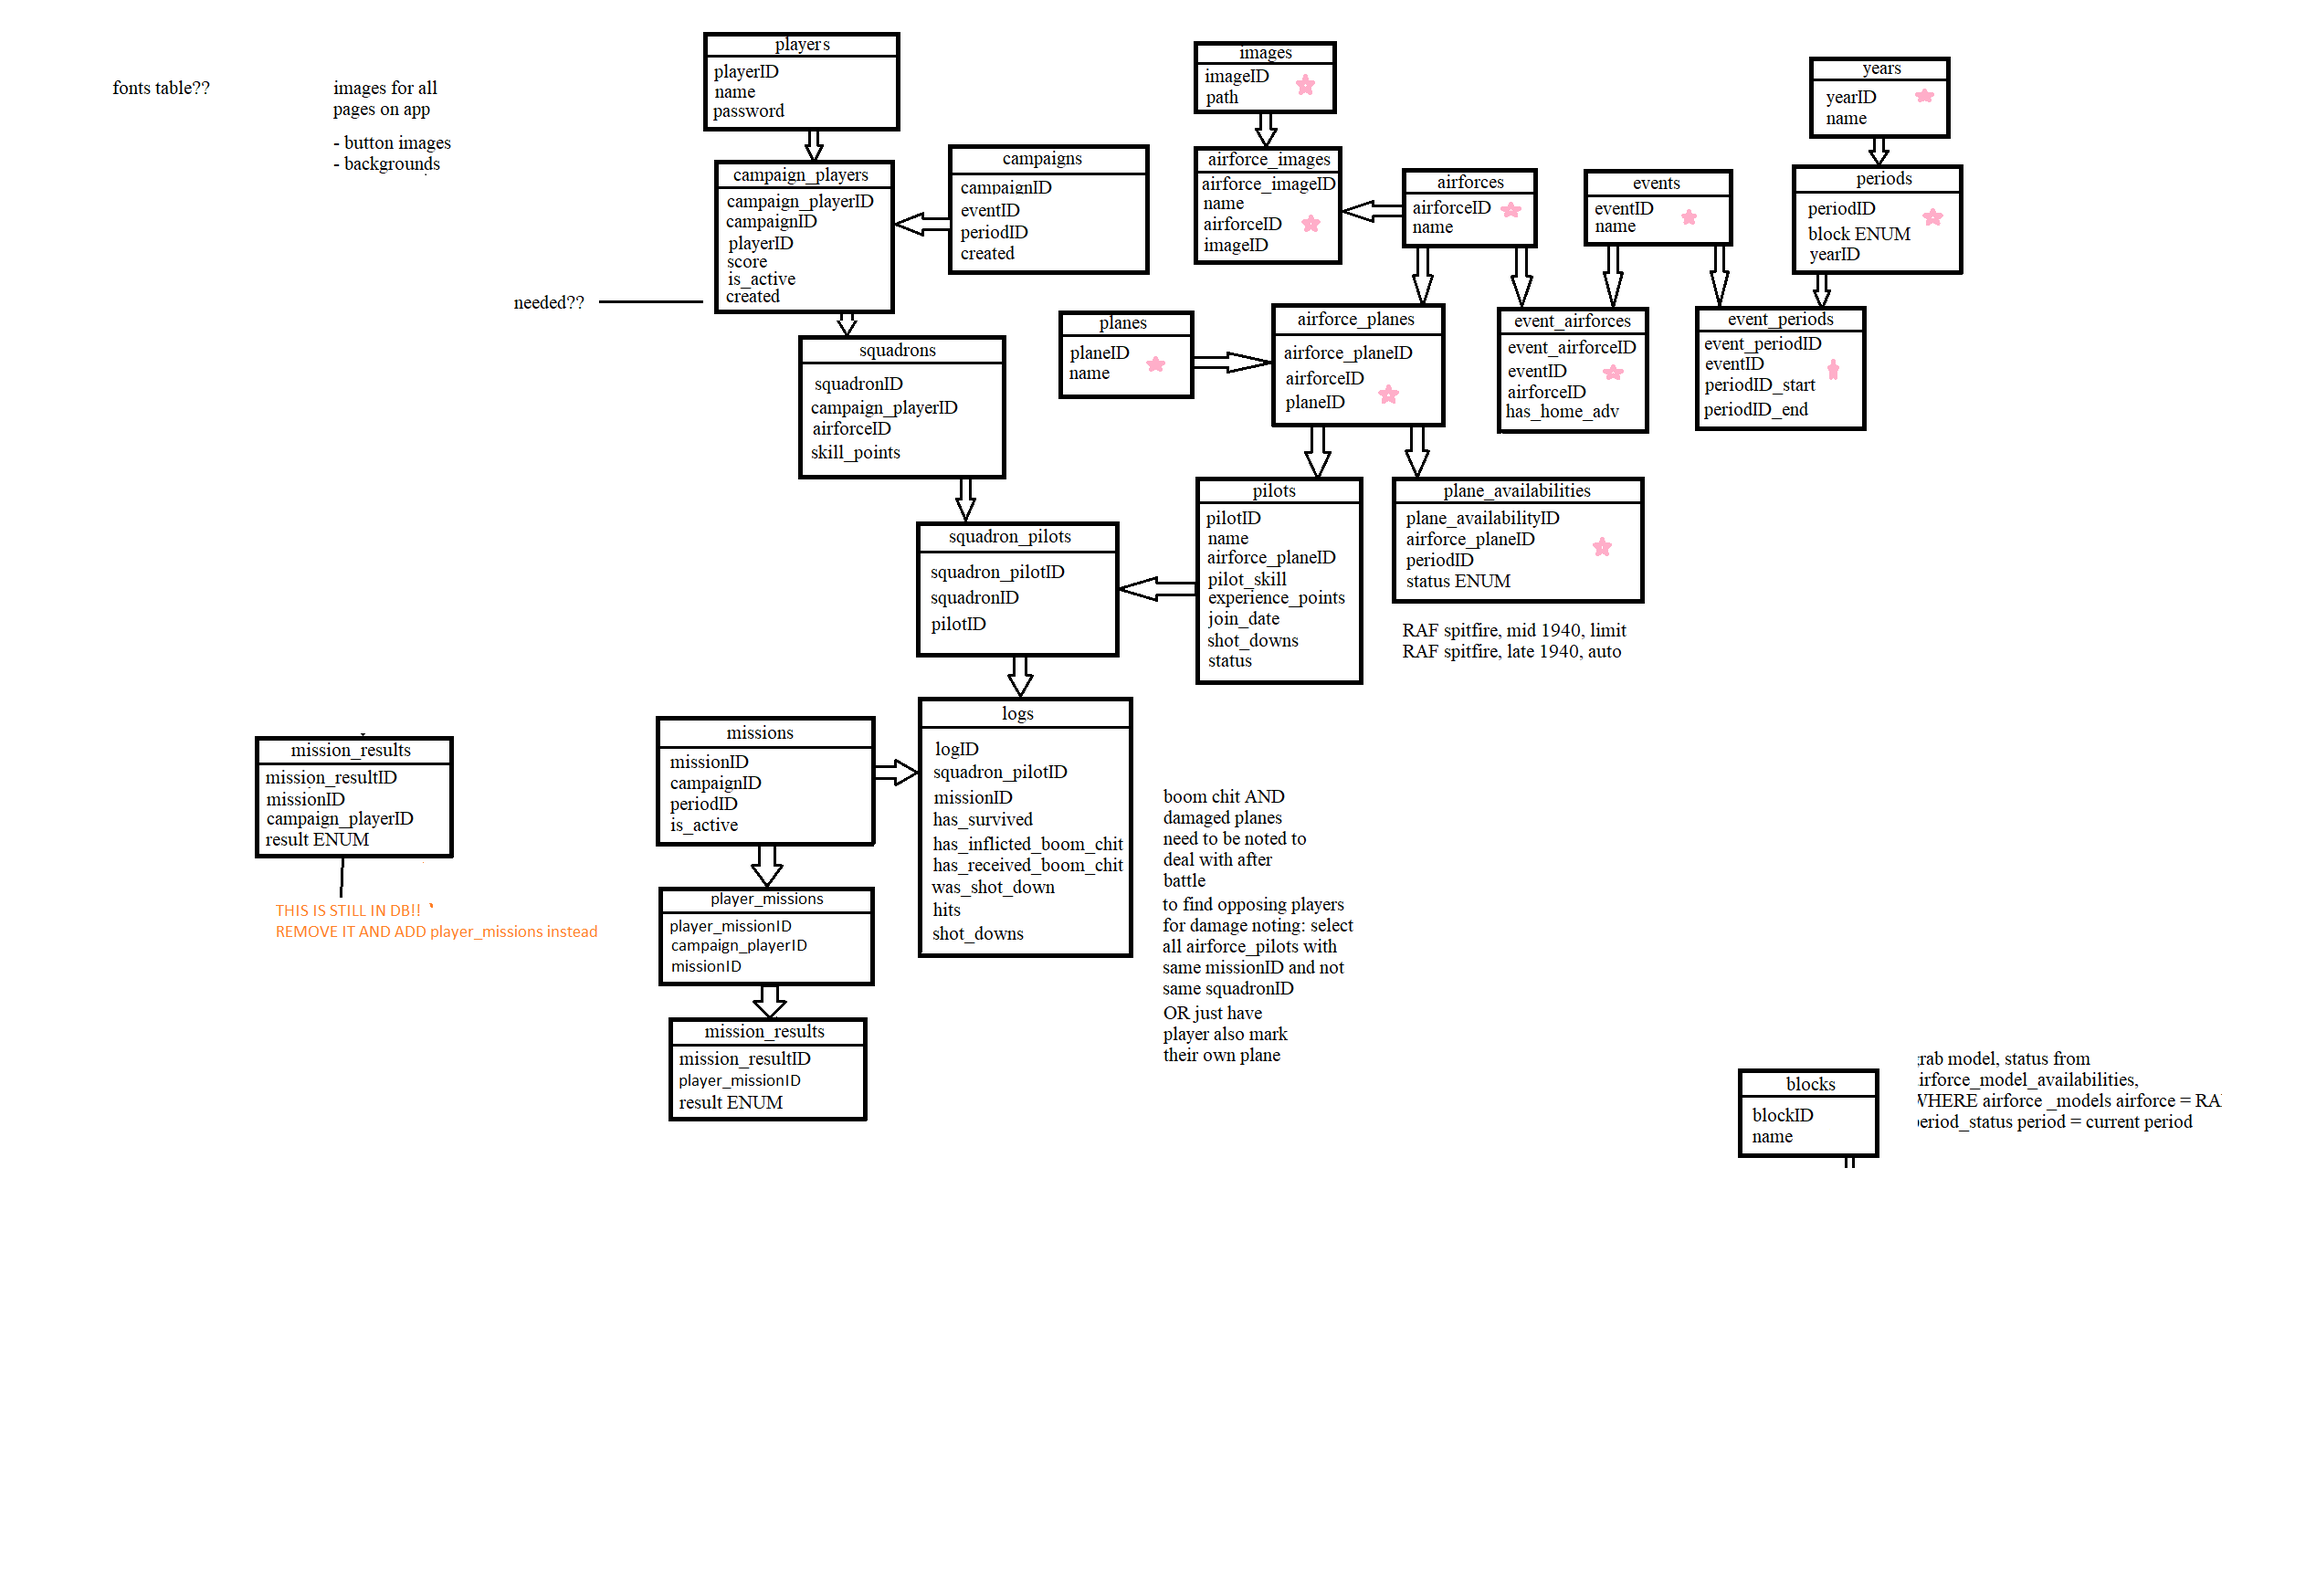
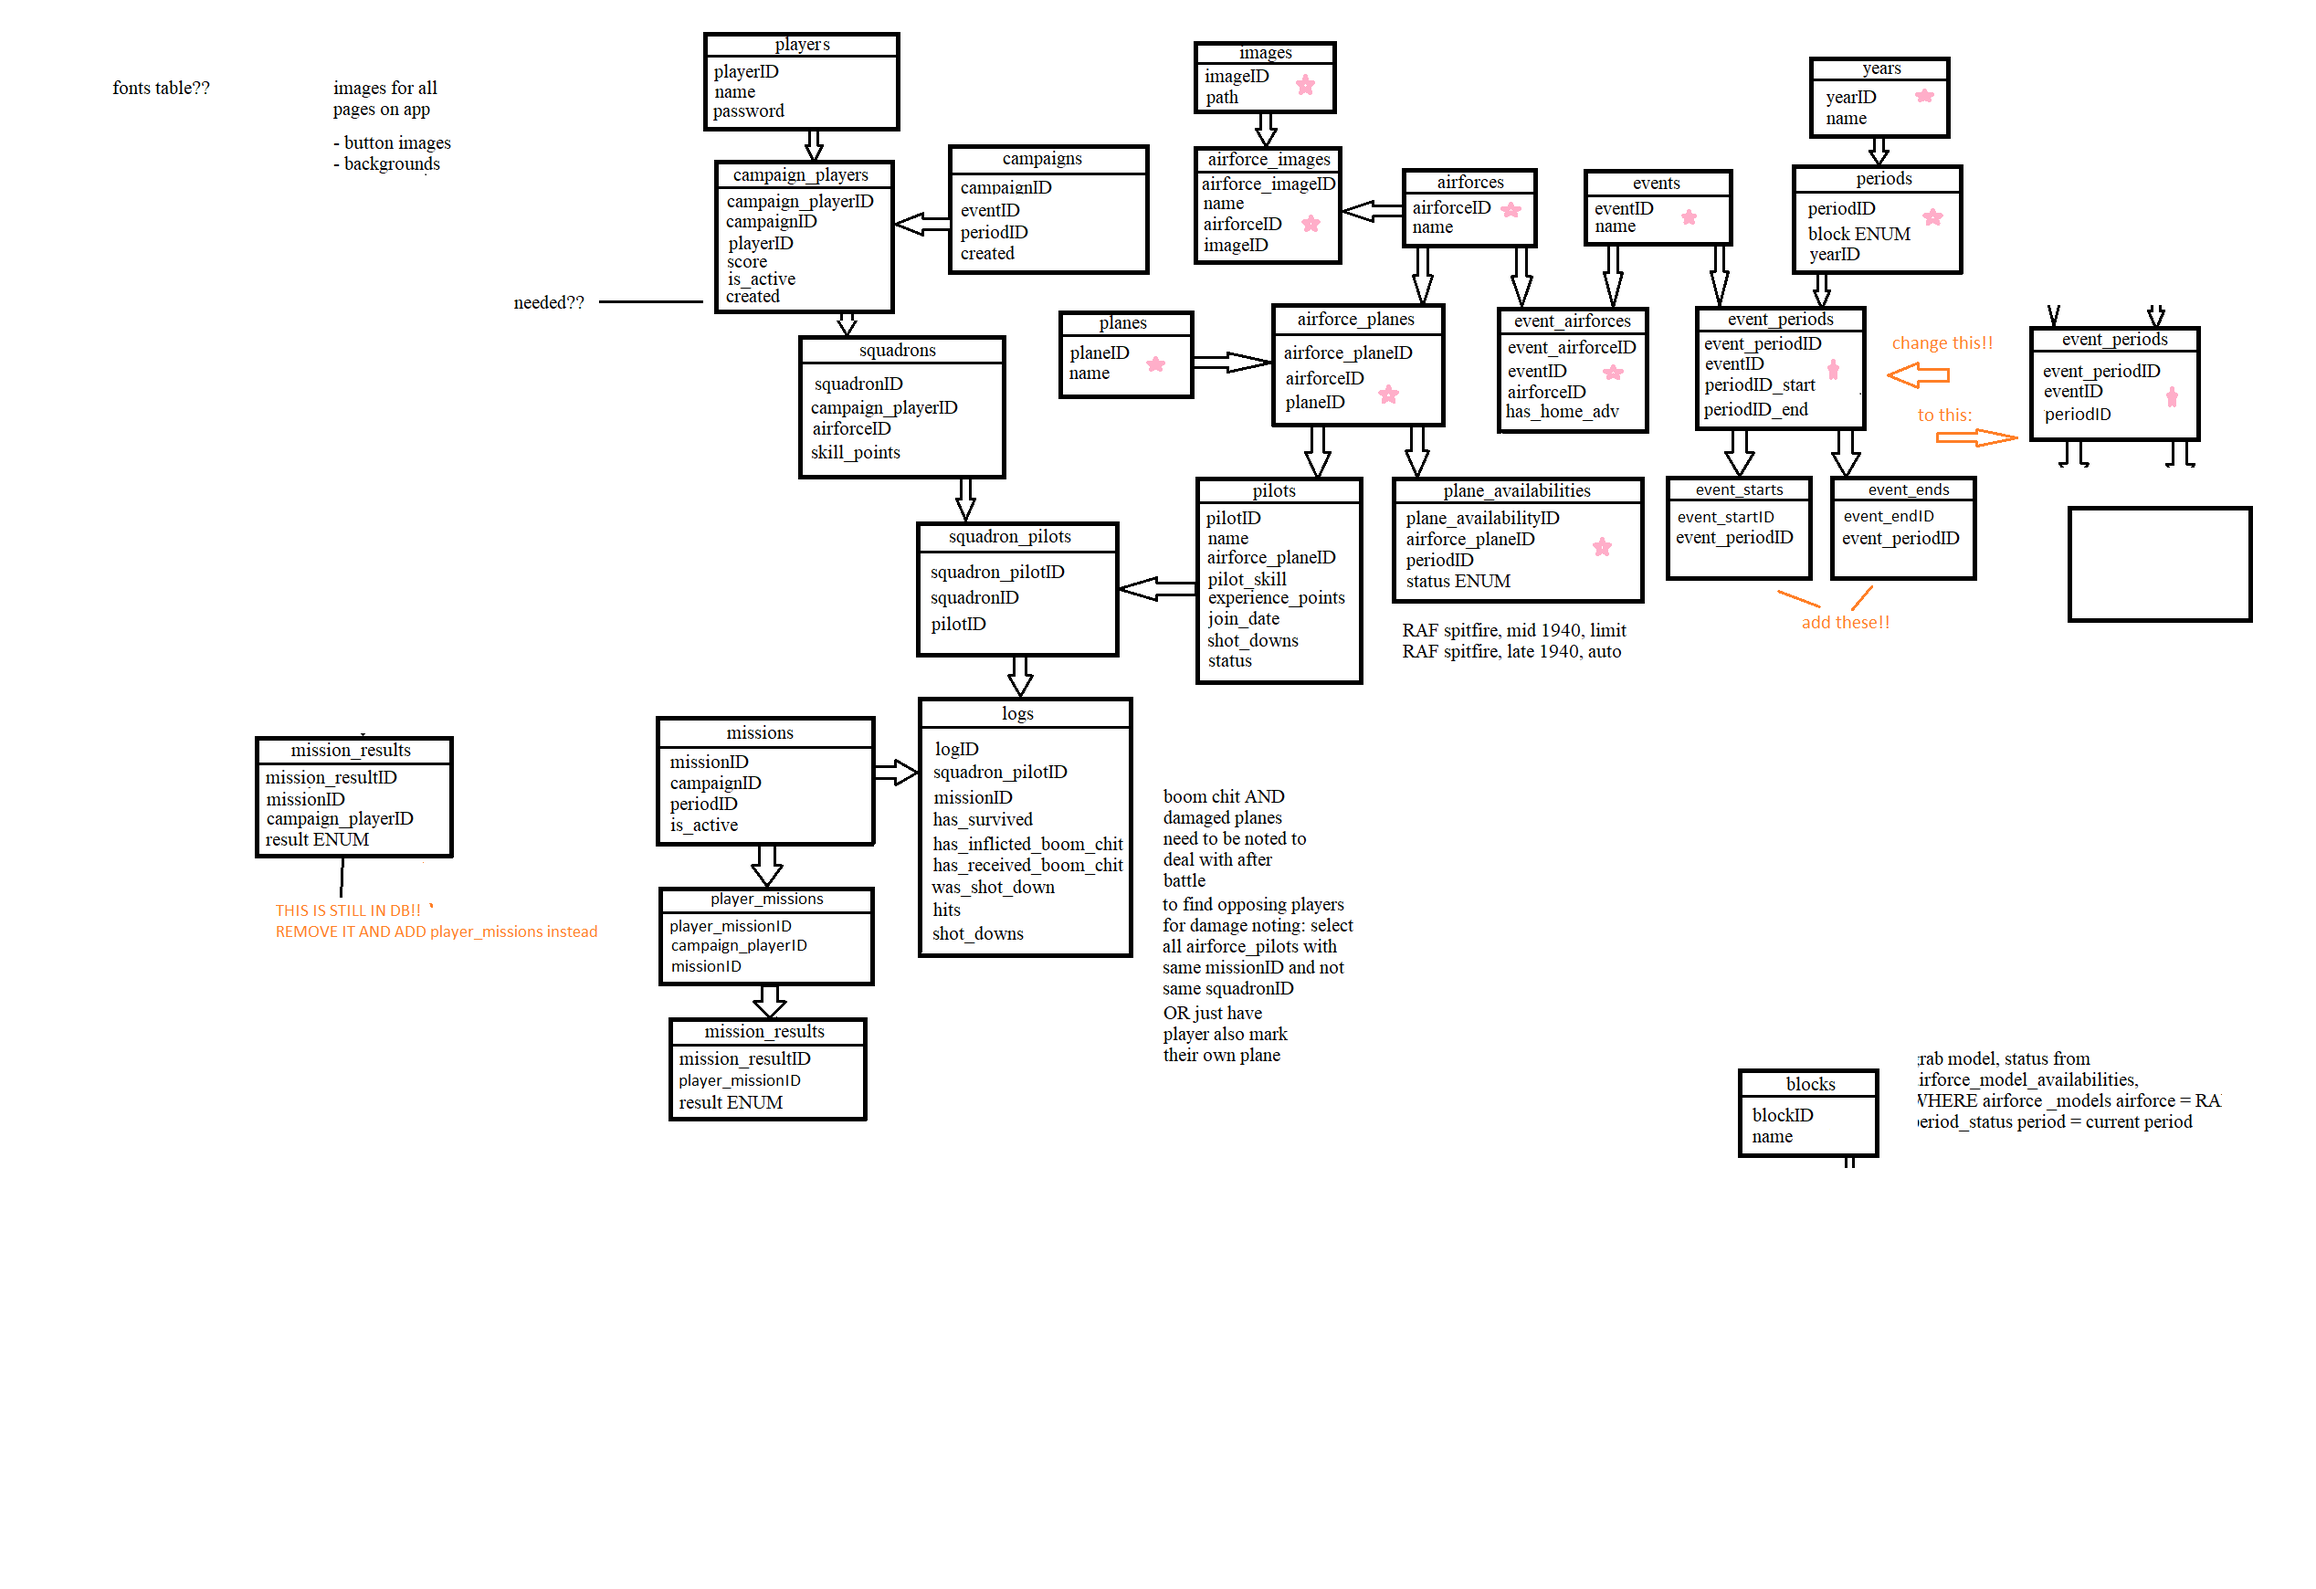
adding new event start tables

Changed region(s): [[0.7165, 0.2793, 0.8722, 0.4034], [0.8411, 0.1862, 0.9657, 0.2793], [0.8099, 0.2172, 0.8411, 0.2483]]

diff --git a/Workspace/CampaignTracker/src/model/Event.java b/Workspace/CampaignTracker/src/model/Event.java
@@ -6,12 +6,8 @@ import java.util.List;
 public class Event {
 	
 	private String name; //name of event
-	
-	/////private Period startPeriod; //start period
-	///////private Period endPeriod; //end period
-	
-	private String startPeriod; //start period
-	private String endPeriod; //end period
+	private Period startPeriod; //start period
+	private Period endPeriod; //end period
 	private List<EventAirForce>eventAirForces; //air forces involved
 	
 	private Event() {} //blank constructor
@@ -28,14 +24,14 @@ public class Event {
 		}
 		
 		//set start period:
-		public EventBuilder setStartPeriod(String period) {
-			event.startPeriod = period;
+		public EventBuilder setStartPeriod(Period period) {
+			event.startPeriod = new Period(period.getBlock(), period.getYear());
 			return this;
 		}
 		
 		//set end period:
-		public EventBuilder setEndPeriod(String period) {
-			event.endPeriod = period;
+		public EventBuilder setEndPeriod(Period period) {
+			event.endPeriod = new Period(period.getBlock(), period.getYear());
 			return this;
 		}
 		
@@ -50,17 +46,25 @@ public class Event {
 	
 	//getters:
 	public String getName() { return name; }
-	public String getStartPeriod() { return startPeriod; }
-	public String getEndPeriod() { return endPeriod; }
 	
+	//get start period:
+	public Period getStartPeriod() {
+		return new Period(startPeriod.getBlock(), startPeriod.getYear());
+	}
+	
+	//get end period:
+	public Period getEndPeriod() {
+		return new Period(endPeriod.getBlock(), endPeriod.getYear());
+	}
+	
+	//get event air forces:
 	public List<EventAirForce> getEventAirForces() {
 		return new ArrayList<EventAirForce>(eventAirForces);
 	}
+	
 	@Override
 	public String toString() {
 		return "Event [name=" + name + ", eventAirForces=" + eventAirForces + "]";
 	}
 
-	
-	
 }

diff --git a/Workspace/CampaignTracker/src/database/SelectEvents.java b/Workspace/CampaignTracker/src/database/SelectEvents.java
@@ -13,9 +13,9 @@ import model.EventAirForce;
 import model.EventAirForce.EventAirForceBuilder;
 
 public interface SelectEvents {
-	
-	public static List<Event> select() {
 
+	public static List<Event> select() {
+	
 	//++++++++++++++++++++
 	//https://www.roseindia.net/jdbc/Jdbc-nested-result-set.shtml#:~:text=The%20JDBC%20Nested%20Result%20Set,is%20the%20simplest%20join%20algorithm.
 		
@@ -23,20 +23,23 @@ public interface SelectEvents {
 		
 		try (Connection connection = ConnectDB.getConnection(); //get a connection to the db
 			
-			//statement for events :
+			//statement for events:
 			CallableStatement eventsStatement = connection.prepareCall("{CALL select_events()}");
+			//statement for event air forces:
 			CallableStatement airForcesStatement = connection.prepareCall("{CALL select_event_airforces(?)}");
 		
-			//result set executing events query:
+			//result set events query:
 			ResultSet eventsRS = eventsStatement.executeQuery();) { 
 			
-			//result set for executing event airForces query:
-			ResultSet airForcesRS = null; ////////CLOSE THIS!! :P +++++++++++++++++++++++
+			//result set for air forces query:
+			ResultSet airForcesRS = null; 
 		
 			while(eventsRS.next()) {
 				
 				EventBuilder eventBuilder = new Event.EventBuilder(); //create new event builder
 				eventBuilder.setName(eventsRS.getString("event_name")); //add event name
+				
+				//////////System.out.println("periodID_start: " + eventsRS.getInt("periodID_start"));
 				
 				List<EventAirForce>eventAirForces = new ArrayList<>(); //create list for event air forces
 				airForcesStatement.setInt(1, eventsRS.getInt("event_ID")); //set input with event id

diff --git a/Workspace/CampaignTracker/src/model/Player.java b/Workspace/CampaignTracker/src/model/Player.java
@@ -15,20 +15,20 @@ public class Player { /** +++++++++++++++++++++ is this class even needed???  :P
 		
 		//set id:
 		public PlayerBuilder setId(int id) {
-			player.id = id; //set id
-			return this; //return this object
+			player.id = id; 
+			return this; 
 		}
 		
 		//set name:
 		public PlayerBuilder setName(String name) {
-			player.name = name; //set name
-			return this; //return this object
+			player.name = name; 
+			return this; 
 		}
 		
 		//set password:
 		public PlayerBuilder setPswrd(String pswrd) {
-			player.pswrd = pswrd; //set password
-			return this; //return this object
+			player.pswrd = pswrd; 
+			return this; 
 		}
 		
 		public Player build() { return player; } //return built player

diff --git a/Workspace/CampaignTracker/src/model/EventPeriod.java b/Workspace/CampaignTracker/src/model/EventPeriod.java
@@ -1,6 +1,6 @@
 package model;
 
-public class EventPeriod {
+public class EventPeriod { //????????????????????? prob not needed!!! +++++++++++++++
 	
 	private String eventName;
 	private Period startPeriod;

diff --git a/Workspace/CampaignTracker/src/model/Period.java b/Workspace/CampaignTracker/src/model/Period.java
@@ -1,6 +1,6 @@
 package model;
 
-public class Period { //+++++++++++++MIGHT NOT BE NEEDED!! 
+public class Period {
 	
 	//blocks of a year:
 	public enum Block {
